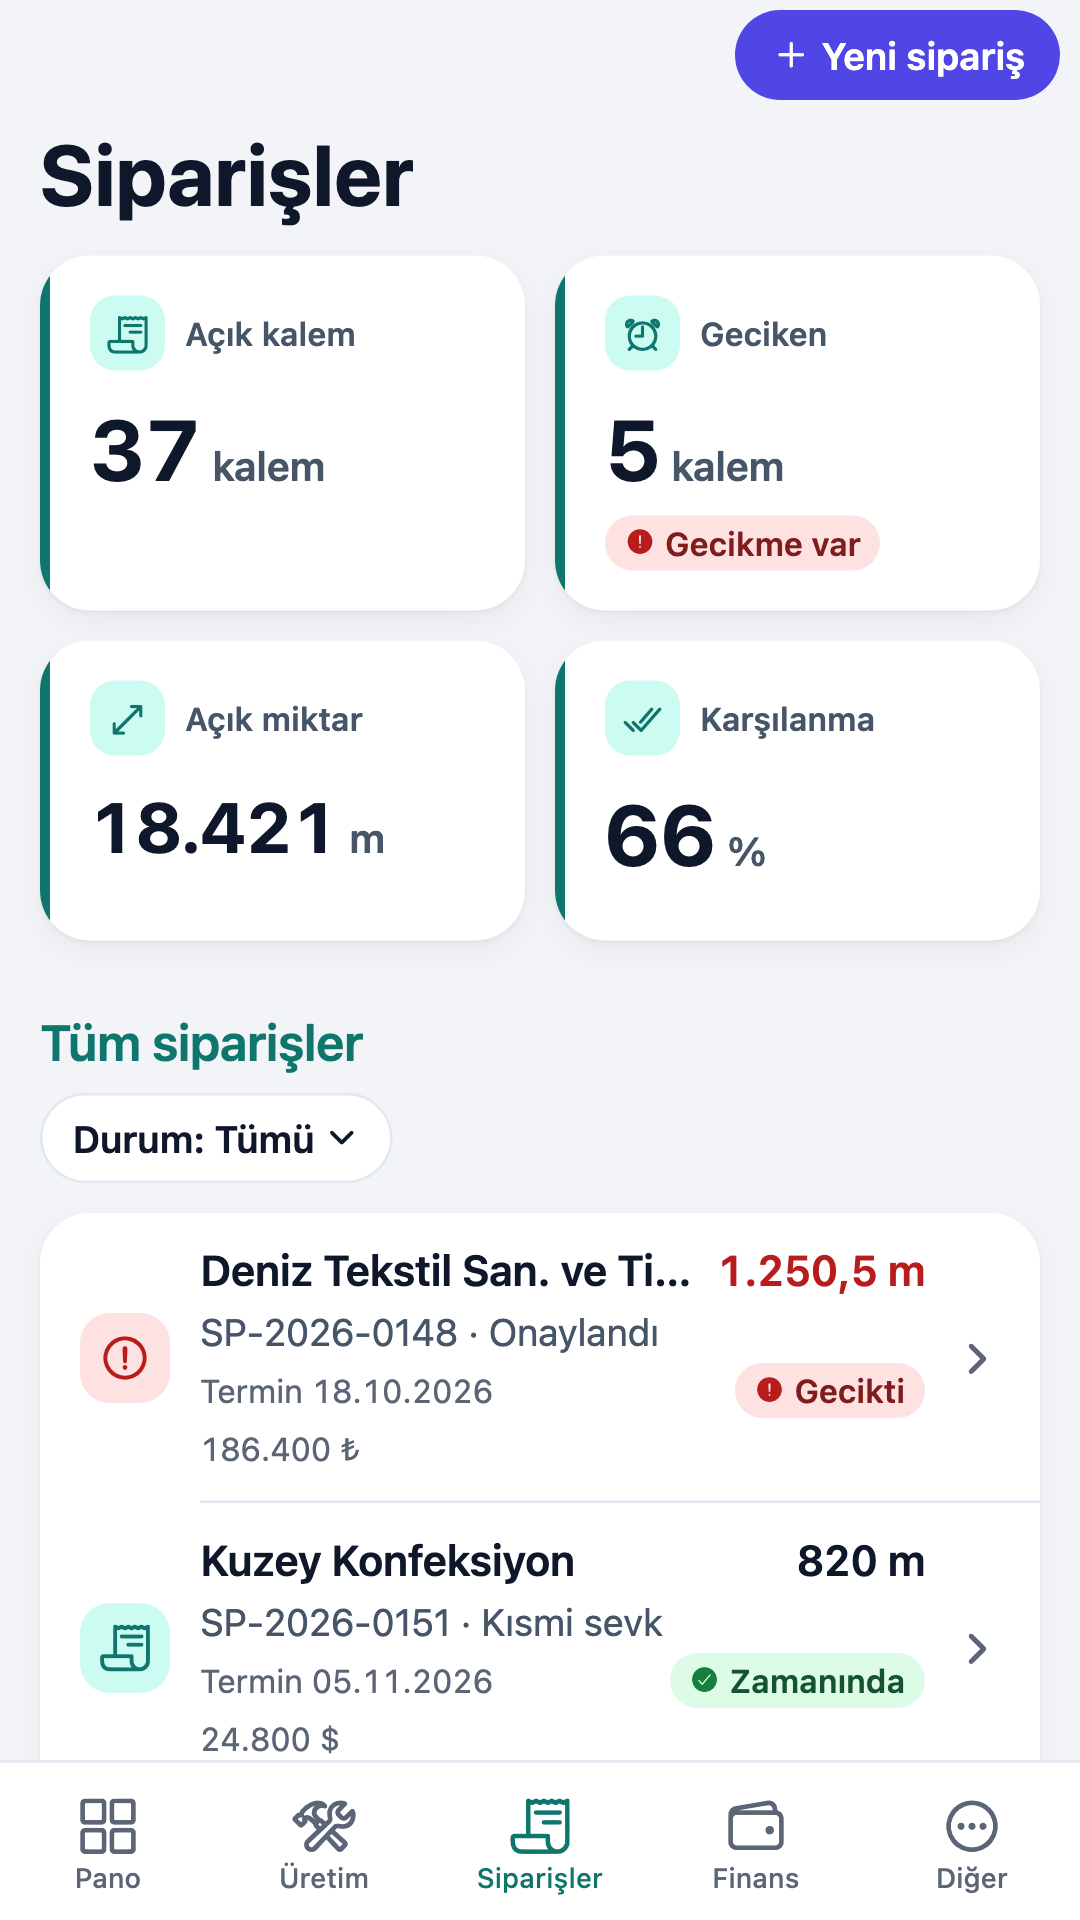
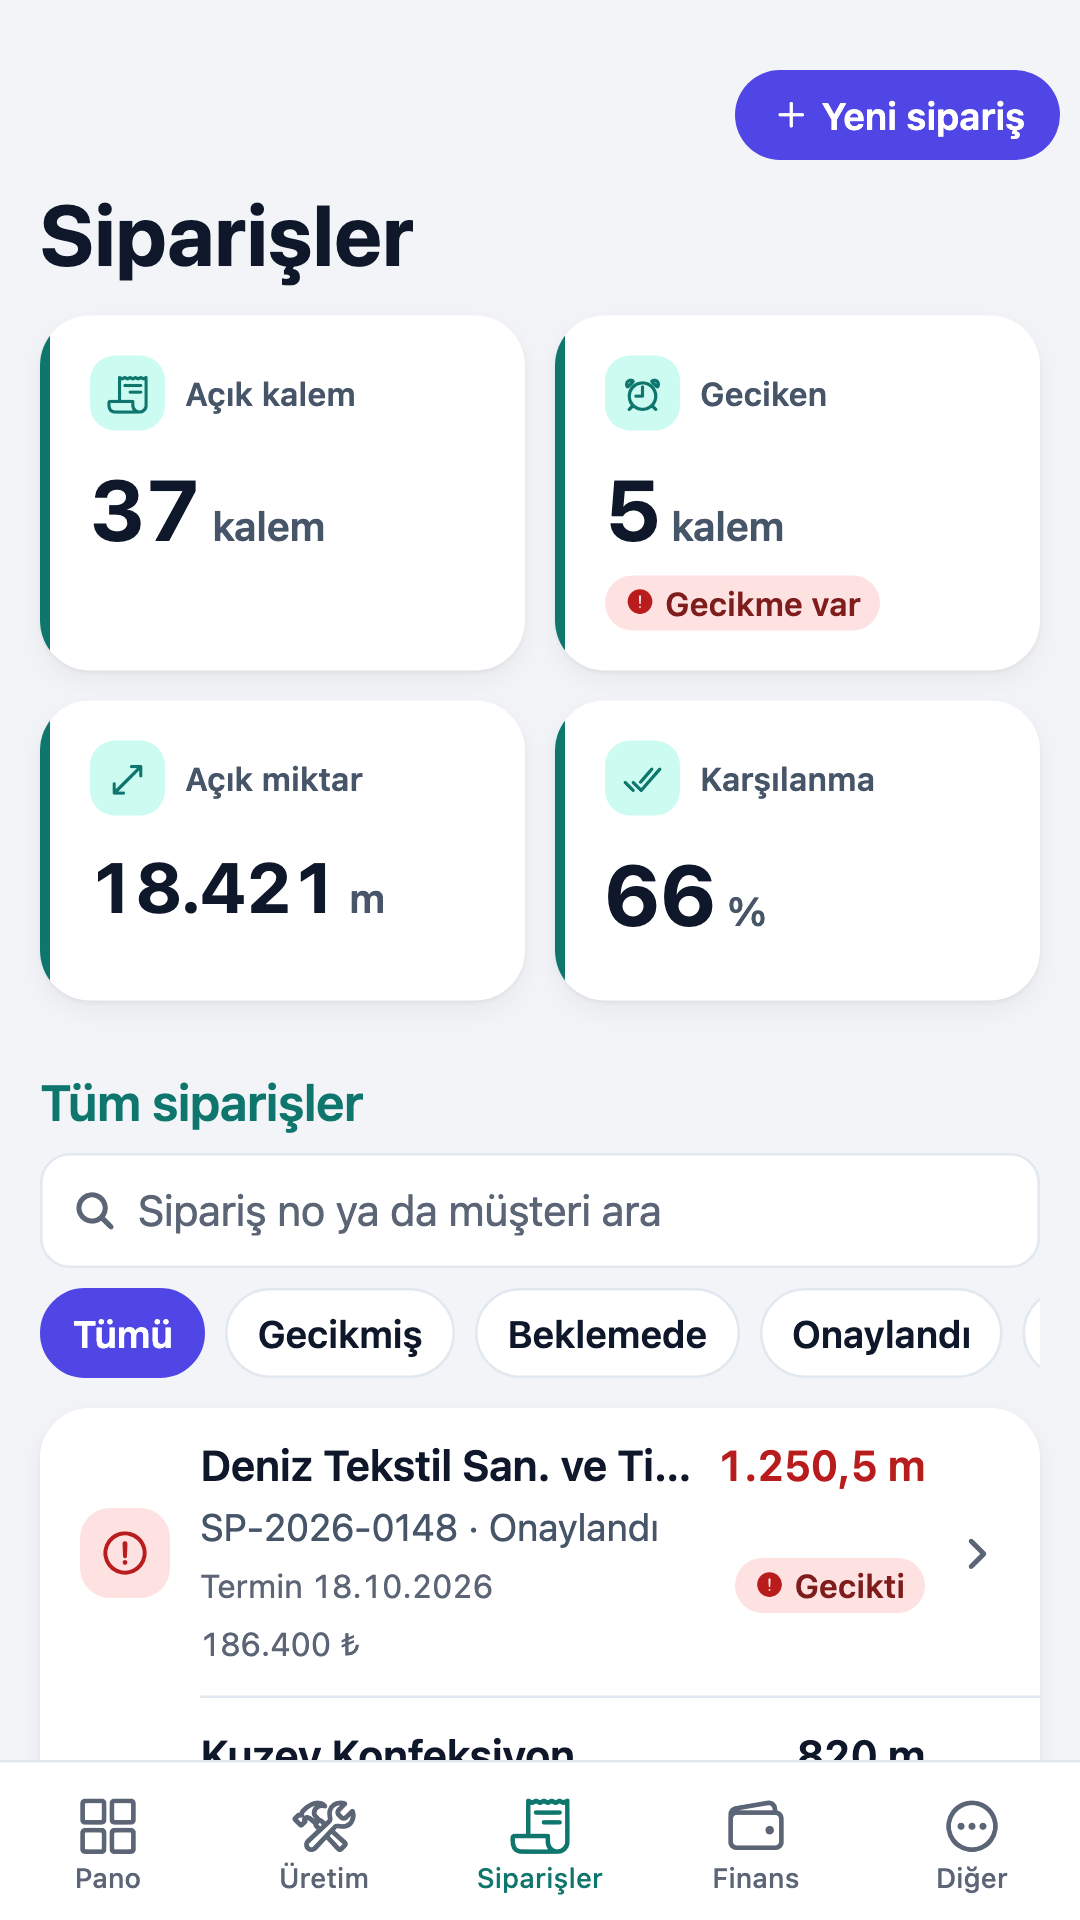
docs(release): merge 2.15.13 draft notes, patron server 0.2.0 note; retake orders screenshot
- docs/surumler/2.15.13-taslak.md: P4 (event-driven round, flag default OFF, bell refreshes all
  projections, inbox triggers event round, dirty-flag hardening) and P5 (customer/item/color names,
  first-round backfill, old cloud accepts) merged under the seven SABLON headings; -P5 draft removed.
- docs/surumler/patron-sunucu-0.2.0.md: degisim_sayaci migration, GET /api/degisim long poll,
  LIST_ID_FILTERS + order search + optional /oturum liste, N/N-1, rollback.
- 03-siparisler.png: mock session now carries the P6 `liste` capability so search and chips show;
  24 px status-bar inset on top.

diff --git a/docs/surumler/2.15.13-taslak.md b/docs/surumler/2.15.13-taslak.md
@@ -1,19 +1,122 @@
-> **TASLAK — terfide kullanıcı onayı.** Kısa girdi notu (P4 dilimi, 2026-10-22); `backend-<sürüm>.md`
-> belgesini W dilimi ya da paketleme günü yazar, bu not oraya taşınır. `Teks-Erp/package.json` sürümüne
-> dokunulmadı.
+# Backend `2.15.13`
 
-# Backend 2.15.13 — TASLAK girdi: patron bulutu olay güdümlü tur
+**Durum:** TASLAK — terfide kullanıcı onayı. `backend-2.15.13.md` adı yalnız yayın anında (sürüm commit'inde)
+açılır; o ana kadar bu dosya `test_surum_belgesi` kapsamı dışındadır. `Teks-Erp/package.json` sürümüne dokunulmadı.
+Bu belge P4 (PR #90) ve P5 (PR #87) girdi notlarının birleşimidir (W2, 2026-10-24).
+**Paket:** _(paketleme doldurur)_
+**SHA256:** _(paketleme doldurur)_
+**Commit:** _(paketleme doldurur)_
+**Önceki saha sürümü:** 2.15.12 (`test` grubu, etiket `backend-v2.15.12`). Güncellenecek her kurulumda sahadaki sürüm
+kurulumdan önce sunucunun sağlık bilgisinden okunur; tahmin edilmez.
+
+Sürüm numarası: yama hanesi (otomatik, `scripts/backend-surum.mjs`).
 
 ## 1. Özet
 
-- **Yeni ayar:** `patronBulut.olayGudumluEnabled` (panel: Sistem → Patron Bulutu → "Patron bulutuna anında
-  gönder (olay güdümlü)"; izin `admin:settings` ya da `settings:session`). **Varsayılan KAPALI** = bugünkü
-  davranış: veri yalnız kiradaki aralıkta (genelde 5 dk) gider.
-- **Açıkken:** bulutun izlediği bir tabloya yazılınca 3 sn içindeki değişiklikler birleştirilip kısa bir
-  eşitleme turu koşar; iki tur arası en az 15 sn, aynı anda tek tur. Kira aralığı turu emniyet olarak
-  sürer. Ön koşul (`cloudEligibility`) kapalı kurulumda hiçbir durumda dışarı istek atılmaz.
-- **Zil (`ozet`) turu** artık yalnız özetleri değil TÜM projeksiyonları (sipariş/sevkiyat listeleri dahil)
-  tazeler; 30 sn kapısı aynı. Gelen kutusundan kayıt işlenince olay turu istenir (bayrak kapalıysa etkisiz).
-- **Eski istemci:** panel/tablet etkilenmez; yeni alan feature-flag yükünde fazladan döner. Paket şeması
-  ve bulut tel sözleşmesi değişmedi; eski bulut aynı `/v1/esitle`yi daha sık alır.
-- **Geri alma:** panelden bayrak kapatılır; kod geri alınmaz.
+Patron bulutu eşitlemesi: isteğe bağlı olay güdümlü tur (yeni ayar, varsayılan KAPALI) ve sipariş/sevkiyat
+listelerinde müşteri, sipariş kaleminde ürün/renk adı.
+
+- **Yeni ayar `patronBulut.olayGudumluEnabled`** (panel: Sistem → Patron Bulutu → "Patron bulutuna anında gönder
+  (olay güdümlü)"; izin `admin:settings` ya da `settings:session`). **Varsayılan KAPALI** = bugünkü davranış: veri yalnız
+  kiradaki aralıkta (genelde 5 dk) gider. Açıkken bulutun izlediği bir tabloya yazılınca 3 sn içindeki değişiklikler
+  birleştirilip kısa bir eşitleme turu koşar; iki tur arası en az 15 sn, aynı anda tek tur; 5 dk kira turu emniyet
+  olarak sürer. Ön koşul (`cloudEligibility`) sağlanmayan kurulumda hiçbir durumda dışarı istek atılmaz.
+- **Zil (`ozet`) turu** artık yalnız özetleri değil TÜM projeksiyonları (sipariş/sevkiyat listeleri dahil) tazeler;
+  30 sn kapısı aynı. Gelen kutusundan kayıt işlenince olay turu istenir (bayrak kapalıysa etkisiz).
+- **Yeni görünen ad alanları:** `siparis.musteriAdi`, `sevkiyat.musteriAdi`, `siparis-kalemi.urunAdi` /
+  `renkAdi`. Yükseltmeden sonraki ilk turda kendiliğinden doldurulur; elle tam tetikleme gerekmez.
+- **Panel (web paneli imajda):** Patron Bulutu ayar kategorisinde yeni anahtar. Masaüstü panel paketi bu turda yok.
+- Operatöre etkisi yok (tablet ve panel ekranları değişmedi; yalnız bir ayar satırı eklendi).
+
+## 2. Ne değişti
+
+**Olay güdümlü tur — P4** (PR #90; commit `abef81a45`; kural `docs/kurallar/patron-bulutu.md`)
+
+- Kirli bayrak `src/cloud-sync/dirty-flag.ts`: tek yazar; katalog değişiklik kaynağı tablolarına yazan model işlemleri
+  ve ham SQL yazımları kümeye tablo adı bırakır. Mekanizma `lib/prisma.ts` tek noktada Proxy (`withDirtyTracking`),
+  `$extends` değil; çağrı başına ek yük ~0,1 µs.
+- Olay turu `jobs/cloud-sync.job.ts`: ilk kirlenmeden ≥ 3 sn, iki tur arası ≥ 15 sn, tek uçuş; yalnız bayrak açık ∧
+  ön koşul uygun. Durum bilgisinde `lastTrigger` + `lastEventRoundAt`.
+- Zil turu `snapshotsOnly: false` (tüm projeksiyonlar). `jobs/cloud-inbox.job.ts`: gelen kutusu kaydı işlenince olay
+  turu istenir.
+- **Kirli bayrak sertleştirmesi:** işaretleme ya da dinleyici hatası yazmayı ASLA kırmaz — `markDirty` dinleyiciyi
+  try/catch içinde çağırır (çok tablolu ham SQL'de kalan tablolar yine işaretlenir); `wrapDelegate` ve ham SQL
+  sarmasında işaretleme `safeMark` içinde, asıl çağrı dışarıda. Yutulan hata `uyari('patron-bulut', …)` ile dakikada
+  en fazla bir iz bırakır. Sarma önbelleği kaynak kimliğine bağlı (`cachedWrap`), kendi sarmamız yeniden sarılmaz
+  (yerinde yamalayan zorlanmış-sıra bekçileri için şeffaf).
+- Bayrak reçetesi: zod, `settings:session` kapsamı (`constants/settings-scopes.ts`), `feature-flag.routes.ts`,
+  `system-setting.service.ts`, hepsi-açık profili + `acik.json`, Electron aynası (`featureFlagService.ts`,
+  `flag-modules.ts`, `settings-config.ts`).
+- Bekçi: `test_bulut_olay_gudumlu` (yeni).
+
+**Görünen ad alanları — P5** (PR #87; commit `3fbf50115`; `cloud-sync/catalog-facts.ts`, `derived.ts`, `projections.ts`)
+
+- `siparis.musteriAdi` · `sevkiyat.musteriAdi` — cari kartın adı (`Customer.name`, `cari-kart.ad` ile aynı kolon);
+  `siparis-kalemi.urunAdi` (`Item.name`) · `siparis-kalemi.renkAdi` (`Color.name`; renksiz kalemde boş).
+- Alanlar kök satırdadır (İŞLEM sınıfı): firma/ürün/renk adı kişisel ya da finans verisi değildir; `bulut:siparis:oku`
+  / `bulut:sevkiyat:oku` izni yeter. Katalog sürümü ARTMADI (alan ekleme, N/N−1).
+- Güncel kalma: cari, ürün ya da renk kartı değişince bağlı siparişler/sevkiyatlar/kalemler yeniden gider (yeni
+  değişiklik kaynakları `customers` / `items` / `colors`).
+- İlk turda dolgu (ölçüldü): yeni kaynakların filigranı yoktur; yükseltmeden sonraki İLK eşitleme turu cari/ürün/renk
+  tablolarını baştan tarar ve bağlı TÜM sipariş, sevkiyat ve sipariş kalemlerini yeni alanlarla yeniden gönderir
+  (5.000 kayıtlık paketlere bölünür; birkaç paket sürebilir).
+
+**Tarayıcı paneli** (imajdaki web paneli) — Sistem → Patron Bulutu'nda yeni anahtar "Patron bulutuna anında gönder
+(olay güdümlü)". `dist-web` bu yüzden DEĞİŞTİ.
+
+**Pakete girmeyenler:** patron bulut sunucusu (ayrı imaj, `docs/surumler/patron-sunucu-0.2.0.md`), patron uygulaması
+1.1.0 (Play), plan belgeleri.
+
+## 3. Sözleşme
+
+- **Kırıldı mı:** HAYIR. Yeni bir ayar anahtarı ve buluta giden paketlerde yeni isteğe bağlı alanlar; var olan uçların
+  cevabı değişmedi. Paket şeması ve bulut tel sözleşmesi (`/v1/esitle`) değişmedi.
+- **Eski istemci ne yapar:**
+  - Eski tablet ve eski masaüstü panel (≤ 1.6.7): etkilenmez. Özellik anahtarları yükünde fazladan bir alan döner,
+    tanınmayan alan yok sayılır; eski masaüstü panel yeni ayarı göstermez (varsayılan KAPALI → davranış aynı).
+  - Eski patron bulutu (0.1.x): yeni alanlı paketi KABUL EDER (ölçüldü — satırı jsonb saklar, kökte yalnız
+    tutar/kişisel alanları yasaklar) → dağıtım sırası serbest; fabrika backend'i bulut sunucusundan bağımsız
+    yükseltilebilir. Bayrak açıkken eski bulut aynı `/v1/esitle`yi daha sık alır.
+  - Eski patron uygulaması (1.0.x): yeni alanları göstermez; yeni uygulama alan yoksa "—" yazar.
+  - Altı tetik: uç kaldırma yok · alan adı değişmedi · tip/birim değişmedi · zorunlu parametre yok · enum yok · yeni
+    izin kodu yok.
+- **`minVersion` dokunuldu mu:** hayır.
+
+## 4. Migration
+
+- **Var mı:** hayır (backend). Patron bulutunun `20261022120000_degisim_sayaci` göçü bu paketin parçası DEĞİL.
+- **Toplam migration:** 395 (2.15.12 ile aynı) — kuran "No pending migrations" bekler; göç UYGULANIRSA bu beklenmedik
+  bir durumdur → DUR. (Paketleme anında yeniden sayılır.)
+- **Geri alınabilir mi:** göç yok; geri dönüş imaj değişimiyle mümkün (bkz. §6).
+
+## 5. Kurulum notu
+
+- **Beklenen kesinti:** güncellemede sunucu kısa süre kapalı kalır (yedek + yeniden başlatma; göç yok); süre kurulumda
+  ölçülür.
+- **Sıra:** serbest (kırılma yok). Fabrika backend'i, patron bulutu ve patron uygulaması birbirinden bağımsız
+  yükseltilebilir.
+- **Bu sürüme özel:** yükseltmeden sonraki ilk eşitleme turu yeni ad alanlarını doldurmak için bağlı tüm sipariş,
+  sevkiyat ve kalemleri yeniden gönderir (birkaç paket); olağandır. Olay güdümlü tur ancak kullanıcı kararıyla panelden
+  açılır; kurulum açmaz.
+- **Sınırlar (her sürümde geçerli):** veritabanı sıfırlanmaz, yeniden doldurulmaz, silinmez · uygulanmış
+  migration'lara dokunulmaz · `docker compose down -v` verilmez · başarısız kurulum tekrar denenmez ·
+  **migration adımından sonra herhangi bir hata → DUR, düzeltme yapma, insana rapor et**.
+
+## 6. Geri alma
+
+Davranış geri alma: panelden `patronBulut.olayGudumluEnabled` KAPATILIR (varsayılan); kod geri alınmaz. Sürüm geri
+alma: güncelleme programıyla yapılan güncellemede yeni sürüm açılmazsa önceki imaja ve güncelleme öncesi yedeğe
+kendiliğinden dönülür. Kurulum başarılı olduktan sonra geri dönmek gerekirse göç kümesi eşit olduğundan 2.15.12 imajı
+aynı veritabanıyla açılır; buluttaki ad alanları bir sonraki gönderime kadar kalır, zararsızdır. Yalnız kullanıcı
+onayıyla. `migrate reset`, `docker compose down -v`, `dropdb` yok.
+
+## 7. Doğrulama — kurulumdan sonra rapor edilecekler
+
+- Sağlık bilgisi: sürüm 2.15.13, sunucu ve veritabanı ayakta.
+- Veritabanı: 395 migration bitmiş, sorunlu migration yok.
+- `patronBulut.olayGudumluEnabled` değeri KAPALI (ayar değiştirilmediyse); web panelinde Sistem → Patron Bulutu'nda
+  anahtar görünüyor.
+- Patron bulutuna bağlı kurulumda: ilk eşitleme turu hatasız bitti (Patron Bulutu durum kartı); uygulamada sipariş
+  listesinde müşteri adı görünüyor.
+- `backend-err.log` / konteyner günlüğünde `patron-bulut` uyarısı yok.
+- Masaüstü panelle giriş ve tabletle PIN girişi bugünkü gibi çalışıyor.

diff --git a/docs/surumler/patron-sunucu-0.2.0.md b/docs/surumler/patron-sunucu-0.2.0.md
@@ -1,0 +1,83 @@
+# Patron bulut sunucusu `0.2.0`
+
+**Durum:** TASLAK — canlıya alma kullanıcı kararı (VDS yazımı yalnız kullanıcının "uygula" cümlesiyle;
+`docs/ops/PATRON-BULUTU-KURULUM.md` §4, §8). Bu belge `test_surum_belgesi` kapsamı dışındadır (yalnız `backend-*.md`).
+**İmaj etiketi:** _(imaj derlemesi doldurur — `deploy/patron/imaj-derle.sh --platform linux/amd64`, temiz main'den)_
+**Arşiv SHA256:** _(imaj derlemesi doldurur)_
+**Önceki saha sürümü:** 0.1.x — VDS'te çalışan imaj etiketi yükseltmeden önce `.env`'den okunur (son kayıt runbook
+§15a: `e847c7a55f3e`); tahmin edilmez.
+
+## 1. Özet
+
+Patron uygulaması v2'nin bulut tarafı: veri değişti sinyali (uzun yoklama) ve liste süzgeçleri/sipariş araması.
+Fabrika backend'inden (2.15.13) ve uygulamadan (1.1.0) bağımsız yükseltilebilir.
+
+## 2. Ne değişti
+
+**Değişim sayacı ve uzun yoklama — P3** (PR #88; commit `d64764d30`)
+
+- `GET /api/degisim?since=<n>&bekle=<0..25>`: `sayac > since` olunca ya da süre dolunca döner; içerik taşımaz.
+  Yanıt `{ sayac, degisenler, fabrikaDamgasi }` — `degisenler` hesabın okuyabildiği projeksiyon adlarıdır (halka
+  eskiyse hepsi). Sayaç yalnız fabrikadan veri KABUL edildiğinde artar (tesis başına monoton).
+- Rapor sonucu ve gelen kutusu sonucu sayaç artırmaz (bilinçli; gerekçe arşiv notunda).
+
+**Liste kimlik süzgeçleri ve sipariş araması — P6** (PR #96; commit `21bb4a298`)
+
+- `LIST_ID_FILTERS` (`wire/api.ts`, TEK beyan): `cariKartId` · `cariHesapId` · `siparisId` → alanı taşıyan
+  projeksiyonlar; `GET /api/veri/:projeksiyon?<anahtar>=<uuid>`. Beyansız çift **400** (fail-closed). Önceden
+  `cariKartId` her projeksiyonda kabul edilip boş dönüyordu; eski uygulama onu yalnız `siparis` ve `cari-hesap`ta
+  kullanır, ikisi de beyanlı.
+- `LIST_SEARCH.siparis`: `?ara=` `siparisNo` + `musteriAdi` (fabrika 2.15.13 alanı; eski satır yalnız no ile bulunur);
+  `?suzgec=` çipleri Gecikmiş + beş durum.
+- `GET /api/oturum` yanıtına OPSİYONEL `liste` alanı: `{ kimlikSuzgecleri, aranabilir }`. Uygulama yeni listeleri
+  (kimlik süzgeci, arama, çipler) yalnız bu alan varsa açar.
+- Web: imajla gelen web uygulaması 1.1.0 (v2 görünümü).
+
+## 3. Sözleşme
+
+- **Kırıldı mı:** HAYIR. Yeni uç, opsiyonel yanıt alanı ve yeni sorgu parametreleri; var olan uçların alan kümesi aynı
+  (`/api/oturum` yalnız `liste` eklendi; `/v1/esitle` aynı — bekçi `test_degisim_sayaci` §6).
+- **N/N−1:**
+  - Eski uygulama (1.0.x) → yeni bulut: hiçbir yanıt gövdesinde fark görmez; `liste` alanını tanımaz ve yok sayar.
+  - Yeni uygulama (1.1.0) → eski bulut: `/api/degisim` 404 → 60 sn yoklama kipine düşer; `/oturum`da `liste` yok →
+    eski liste görünümü (durum süzgeci, kalem özeti), kimlik süzgeci gönderilmez.
+  - Fabrika 2.15.13 → eski bulut: yeni ad alanlı paketi KABUL eder (ölçüldü). Fabrika ≤ 2.15.12 → yeni bulut: ad
+    alanları yok, uygulama "—" yazar; arama yalnız sipariş no ile bulur.
+  - Sonuç: **dağıtım sırası serbest.**
+- **`minVersion`:** gerekmez.
+
+## 4. Migration
+
+- **Var mı:** EVET — 1 göç: `20261022120000_degisim_sayaci` — `sync_state` tablosuna iki DEFAULT'lu kolon:
+  `change_counter BIGINT NOT NULL DEFAULT 0` ve `changed_projections JSONB NOT NULL DEFAULT '[]'`. Yeni tablo YOK
+  (RLS/`CLOUD_TABLES`/yetki aynı satırda); veri yazmaz, mevcut satırlar 0 ve `[]` ile doğar.
+- **Uygulama:** `sudo docker compose --profile goc run --rm patron-goc` — merkez `migrate deploy` → roller → `tesis-db.js goc` ile her HAZIR tesis DB'sine eksik göç (roller idempotent).
+- **Toplam göç:** önceki sürüm + 1. Göç sonrası `_prisma_migrations`ta `20261022120000_degisim_sayaci` bitmiş olmalı.
+- **Geri alınabilir mi:** göç geri alınmaz; kolonlar DEFAULT'lu olduğundan eski imaj onlarla çalışır (okumaz).
+
+## 5. Kurulum notu
+
+- **Beklenen kesinti:** `docker compose up -d` yeniden başlatması kadar (saniyeler); uygulama yeniden bağlanır.
+- **Sıra:** serbest (bkz. §3). Runbook §8 kalıbı: yeni imaj → `exec patron-yedek … tek` (önce yedek) → `.env`'de iki
+  imaj etiketi → `--profile goc run --rm patron-goc` → `docker compose up -d`.
+- **Bu sürüme özel:** `docker-compose.yml`, `ornek.env`, `Dockerfile` değişikliği beyanı imaj derlemesi anında
+  `git diff` ile ölçülür ve runbook kaydına yazılır. Yeni zorunlu değişken/sır yok.
+- **Sınırlar:** VDS'e her yazım kullanıcının "uygula" cümlesiyle · `docker compose down -v` YOK · DB drop YOK ·
+  satıcıya dokunulmaz · göç adımından sonra hata → DUR, insana rapor et.
+
+## 6. Geri alma
+
+`.env`'e önceki imaj etiketleri geri yazılır + `docker compose up -d` (eski imaj VDS'te bir sürüm boyunca kalır).
+Göç geri alınmaz; iki kolon DEFAULT'lu ve eski sunucu onları okumadığı için eski imaj aynı DB ile çalışır. Veri
+gerekirse yükseltme öncesi yedekten (§7). Yeni uygulama eski buluta düşünce yoklama kipine ve eski liste görünümüne
+kendiliğinden geçer.
+
+## 7. Doğrulama — kurulumdan sonra rapor edilecekler
+
+- `docker ps`: `patron` ve `yedek` yeni etikette, sağlıklı; günlükte hata yok.
+- Göç: `20261022120000_degisim_sayaci` bitmiş.
+- `GET /api/oturum` (oturumlu) yanıtında `liste` alanı var.
+- `GET /api/degisim?since=0&bekle=0` 200 ve `sayac` sayısal.
+- Uygulama 1.1.0 ile: sipariş listesinde arama alanı ve çipler görünüyor; fabrika eşitlemesi sonrası liste kendiliğinden
+  tazeleniyor.
+- Eski uygulama (1.0.x) ile giriş ve pano bugünkü gibi.
